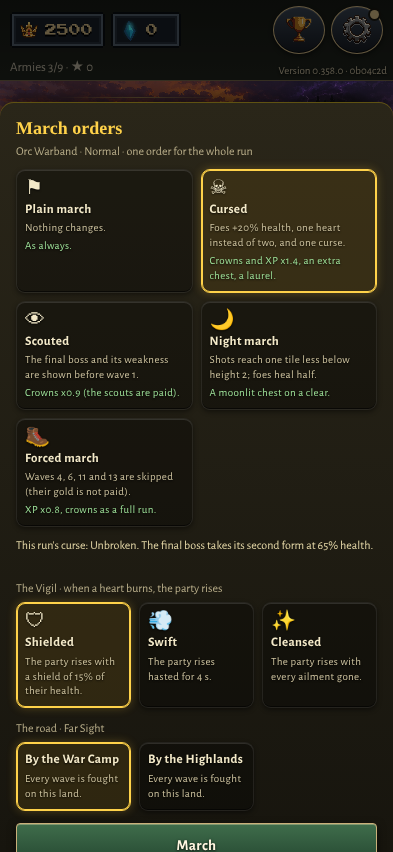
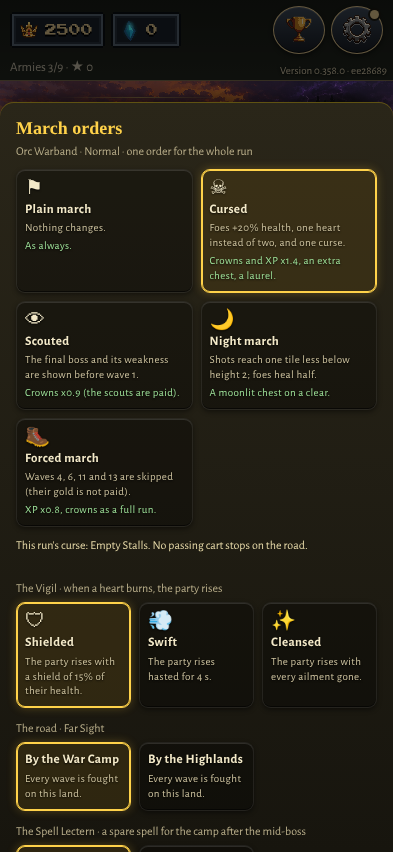
Depth build batch 13: the Smithy's rooms (Field Anvil, Patchwork, Master's Mark)
Claude-Session: https://claude.ai/code/session_01NDLKRsLZur627w2ZaVbFjf

diff --git a/src/marchCard.ts b/src/marchCard.ts
@@ -14,6 +14,7 @@ import { roomOpen } from './sim/rooms';
 import { spareChoices } from './sim/lectern';
 import { castList } from './sim/schools';
 import { SPELLS, type SpellId } from './sim/spells';
+import { UNITS } from './sim/units';
 import { VIGILS, VIGIL_IDS, type VigilId } from './sim/chapelRooms';
 
 const CSS = `
@@ -46,7 +47,7 @@ let styled = false;
 
 /** Whether the card has anything to choose: some modifier other than the plain march is open. */
 export function marchChoice(meta: Meta, army: string, tier: number): boolean {
-  return vigilOpen(meta) || spares(meta).length > 0 || roadsOf(meta, army).length > 0 || MARCHES.some((d) => d.id !== 'plain' && marchOpen(meta, army, tier, d.id).open);
+  return vigilOpen(meta) || spares(meta).length > 0 || roomOpen(meta.castle, 'mastersMark') || roadsOf(meta, army).length > 0 || MARCHES.some((d) => d.id !== 'plain' && marchOpen(meta, army, tier, d.id).open);
 }
 /** The Watchtower's Far Sight: the army's roads, one a land. */
 const roadsOf = (meta: Meta, army: string): Area[] => {
@@ -90,9 +91,11 @@ export function showMarchCard(meta: Meta, army: string, tier: number, seed: numb
   let road: Area | undefined = roads[0];
   const spareList = spares(meta);
   let spare: SpellId | undefined = spareList[0];
+  const markable = roomOpen(meta.castle, 'mastersMark') ? meta.party : [];
+  let marked: string | undefined = markable[0];
   const done = (orders: Orders | undefined) => {
     wrap.remove();
-    const o = { ...(orders ?? {}), ...(vigil ? { vigil } : {}), ...(road ? { route: road } : {}), ...(spare ? { spare } : {}) };
+    const o = { ...(orders ?? {}), ...(vigil ? { vigil } : {}), ...(road ? { route: road } : {}), ...(spare ? { spare } : {}), ...(marked ? { marked } : {}) };
     go(Object.keys(o).length ? o : undefined);
   };
 
@@ -171,6 +174,21 @@ export function showMarchCard(meta: Meta, army: string, tier: number, seed: numb
         st.push(t);
       }
     }
+    // (the Smithy's Master's Mark: one hero whose gear does not wear this run)
+    if (markable.length) {
+      add(box, 'p', 'mcSub mcVigilHead', "The Master's Mark · this hero's gear does not wear this run");
+      const mg = add(box, 'div', 'mcGrid mcVigil');
+      const mt: HTMLButtonElement[] = [];
+      for (const k of markable) {
+        const t = add(mg, 'button', `mcTile${k === marked ? ' on' : ''}`);
+        add(t, 'b', '', UNITS[k]?.name ?? k);
+        t.addEventListener('click', () => {
+          marked = k;
+          for (const x of mt) x.classList.toggle('on', x === t);
+        });
+        mt.push(t);
+      }
+    }
     const row = add(box, 'div', 'mcRow');
     const march = add(row, 'button', 'primary', 'March');
     march.addEventListener('click', () => (chosen === 'scouted' ? drawReport() : done(ordersFor(chosen, seed))));
@@ -237,5 +255,43 @@ export function showLectern(meta: Meta, spare: SpellId, done: (out: SpellId | nu
     wrap.remove();
     done(null);
   });
+  document.body.append(wrap);
+}
+
+/** The Smithy's Field Anvil at the camp after the mid-boss: mend the party's worn gear now, at the stall's price. */
+export function showAnvil(n: number, cost: number, afford: boolean, mend: () => void): void {
+  if (!styled) {
+    styled = true;
+    const style = document.createElement('style');
+    style.textContent = CSS;
+    document.head.append(style);
+  }
+  document.getElementById('marchCard')?.remove();
+  const wrap = document.createElement('div');
+  wrap.id = 'marchCard';
+  wrap.setAttribute('role', 'dialog');
+  const box = document.createElement('div');
+  box.className = 'mcBox';
+  wrap.append(box);
+  const h = document.createElement('h3');
+  h.textContent = 'The Field Anvil';
+  const p = document.createElement('p');
+  p.className = 'mcSub';
+  p.textContent = `${n} worn piece${n === 1 ? '' : 's'} in the party: mend ${n === 1 ? 'it' : 'them all'} for ${cost} crowns, the stall's price.`;
+  const row = document.createElement('div');
+  row.className = 'mcRow';
+  const no = document.createElement('button');
+  no.textContent = 'Not now';
+  const yes = document.createElement('button');
+  yes.className = 'primary';
+  yes.textContent = afford ? `Mend · ${cost}` : `Mend · ${cost} (too few crowns)`;
+  yes.disabled = !afford;
+  no.addEventListener('click', () => wrap.remove());
+  yes.addEventListener('click', () => {
+    wrap.remove();
+    mend();
+  });
+  row.append(no, yes);
+  box.append(h, p, row);
   document.body.append(wrap);
 }

diff --git a/src/main.ts b/src/main.ts
@@ -98,7 +98,9 @@ import { chestPicture } from './chestStash';
 import { toastAchievements, toastLines, toastSpells, toastStones } from './achievementsView';
 import { knownClues, WEAKNESS, weakLines } from './sim/weakness';
 import { farSight, heartsLost, marchCrowns, marchDef, marchPay, ordersLine, routeLand } from './sim/march';
-import { showLectern, showMarchCard } from './marchCard';
+import { showAnvil, showLectern, showMarchCard } from './marchCard';
+import { markedHero } from './sim/march';
+import { repairAll, repairAllCost } from './sim/wear';
 import { lecternDue, lecternSwap } from './sim/lectern';
 import { applyVigil } from './sim/chapelRooms';
 import { journeyBoost, landAt } from './sim/calJourney';
@@ -3395,13 +3397,26 @@ class Game {
       if (this.pay) marchCrowns(this.meta, this.pay, run.orders);
       // (DEPTH-BUILD: the Mage Tower's Spell Lectern, at the camp after the mid-boss: swap the run's spare spell in, once)
       const spare = run.orders?.spare as SpellId | undefined;
-      if (won && army && army.waves[stage - 1]?.boss === 'mid' && !this.auto && lecternDue(spare, run.orders?.spareUsed, true) && roomOpen(run.castle, 'spellLectern'))
+      const midWon = won && !!army && army.waves[stage - 1]?.boss === 'mid' && !this.auto;
+      // (and the Smithy's Field Anvil there: mend the party's worn gear at the stall's price)
+      const anvil = () => {
+        if (!midWon || !roomOpen(run.castle, 'fieldAnvil')) return;
+        const kinds = run.roster.map((h) => h.kind);
+        const { items, cost } = repairAllCost(this.meta, kinds);
+        if (items.length) showAnvil(items.length, cost, this.meta.crowns >= cost, () => {
+          repairAll(this.meta, kinds);
+          saveMeta(this.meta);
+        });
+      };
+      if (midWon && lecternDue(spare, run.orders?.spareUsed, true) && roomOpen(run.castle, 'spellLectern'))
         showLectern(this.meta, spare!, (out) => {
           run.orders!.spareUsed = true;
           if (out) lecternSwap(this.meta.spellbook, spare!, out, this.meta.spellbook.school);
           saveMeta(this.meta);
           saveRun(run);
+          anvil();
         });
+      else anvil();
       // (a daily pays by wave and its boss a chest; a practice run pays nothing)
       this.dailyPay = daily ? settleDaily(this.meta, run, { won, stage }) : null;
       // (a quest battle pays no crowns by the wave: its quest pays, QUEST-BATTLES)
@@ -3463,7 +3478,7 @@ class Game {
       const skillUps = useCut > 0 ? levelUpWords(settleSkillUse(this.meta, fightUse(b, this.meta.unlocked), useCut)) : [];
       // (RUN-GEAR: the found pieces wear as the lasting kit does, and a lasting piece a find sits in for does not)
       const fought = placed.map((u) => ({ kind: u.def, fell: !u.alive }));
-      const wore = [...(run.local ? [] : wearWords(settleWear(this.meta, fought, !!this.auto, (kind, slot) => slotTaken(run, kind, slot)), heroName)), ...wearWords(settleRunWear(run, fought, !!this.auto), heroName)];
+      const wore = [...(run.local ? [] : wearWords(settleWear(this.meta, fought, !!this.auto, (kind, slot) => slotTaken(run, kind, slot) || markedHero(run, kind)), heroName)), ...wearWords(settleRunWear(run, fought, !!this.auto), heroName)];
       // (WAVE-RECAP: the wave's line for the end recap's strip, and anything it found; the short card takes its moments from the same)
       // (a calamity's fights are counted one by one, its stage standing still; WAVE-RECAP-2)
       noteWave(run, { wave: run.mode?.kind === 'calamity' ? recapOf(run).fights : stage, won, stars: won ? rating.stars : 0, ms: b.t, mvp: mvpOf(this.stats)?.kind, ...(this.heartsBurned ? { hearts: this.heartsBurned } : {}) }, [...(this.dropGain?.words ?? []), ...(run.found ?? [])]);

diff --git a/test/smithy-rooms.test.ts b/test/smithy-rooms.test.ts
@@ -1,0 +1,38 @@
+// DEPTH-BUILD (docs/notes/depth-build.md): the Smithy's rooms: Patchwork, the Master's Mark (the Field Anvil is the page's, on `repairAll`).
+import { test } from 'node:test';
+import assert from 'node:assert/strict';
+import { startedMeta } from '../src/sim/meta';
+import { PATCH_SHARE, equipStats, maxDurability, type Equipment } from '../src/sim/equipment';
+import { markedHero } from '../src/sim/march';
+import { newCastle } from '../src/sim/castle';
+import { EQUIP_BASES } from '../src/sim/equipBases';
+
+function dressed() {
+  const m = startedMeta(1);
+  const [base, def] = Object.entries(EQUIP_BASES).find(([, b]) => b.slot === 'torso') ?? Object.entries(EQUIP_BASES)[0];
+  const it = { id: 1, base, rarity: 2, level: 1 } as unknown as Equipment;
+  m.equipment = [it];
+  m.equipped = { knight: { [def.slot]: 1 } } as never;
+  return { m, it };
+}
+
+test('Patchwork: a broken piece keeps half its numbers until mended; without it a broken piece gives nothing', () => {
+  const { m, it } = dressed();
+  const whole = equipStats(m, 'knight')!;
+  assert.ok(whole);
+  it.wear = maxDurability(it);
+  assert.equal(equipStats(m, 'knight'), undefined, 'broken, no Patchwork');
+  m.castle.smithy = 2;
+  const half = equipStats(m, 'knight')!;
+  for (const k of ['hp', 'atk', 'def'] as const) assert.ok(Math.abs(half[k] - whole[k] * PATCH_SHARE) < 1e-9, k);
+  assert.equal(half.abilities.length, 0, 'no ability while broken');
+});
+
+test("the Master's Mark spares only the marked hero, and only with the room", () => {
+  const castle = newCastle();
+  const run = { orders: { marked: 'knight' }, castle };
+  assert.equal(markedHero(run, 'knight'), false, 'no room');
+  castle.smithy = 3;
+  assert.equal(markedHero(run, 'knight'), true);
+  assert.equal(markedHero(run, 'archer'), false);
+});

diff --git a/src/sim/equipment.ts b/src/sim/equipment.ts
@@ -7,6 +7,7 @@
 // same boost the levels and grades use (`Boost.equip`, read by `addUnit` in battle.ts). Pure rules: no Pixi, no DOM;
 // the roll draws only from the stream it is given.
 
+import { roomOpen } from './rooms';
 import type { Meta } from './meta';
 import type { Rng } from './rng';
 import { ALL_HEROES, UNITS } from './units';
@@ -251,13 +252,22 @@ export function wornIn(m: Meta, kind: string, slot: EquipSlot): Equipment | unde
   return id === undefined ? undefined : m.equipment?.find((x) => x.id === id);
 }
 
+/** The share of its numbers a broken piece keeps with the Smithy's Patchwork. */
+export const PATCH_SHARE = 0.5;
+
 /** What a hero kind's equipment adds in a fight; undefined when it wears nothing (so the fight is exactly as before). */
 export function equipStats(m: Meta, kind: string): EquipStats | undefined {
   // (a broken piece gives nothing at all until mended: `wear.ts`)
   const worn = EQUIP_SLOTS.map((slot) => wornIn(m, kind, slot)).filter((x): x is Equipment => !!x && !brokenPiece(x));
-  if (!worn.length) return undefined;
+  // (DEPTH-BUILD: the Smithy's Patchwork: a broken piece keeps half its numbers, no ability and no set count, until mended)
+  const patched = roomOpen(m.castle, 'patchwork') ? EQUIP_SLOTS.map((slot) => wornIn(m, kind, slot)).filter((x): x is Equipment => !!x && brokenPiece(x)) : [];
+  if (!worn.length && !patched.length) return undefined;
   const total = emptyStats();
   for (const it of worn) addStats(total, itemStats(it, kind));
+  for (const it of patched) {
+    const half = itemStats(it, kind);
+    for (const k of STAT_KEYS) total[k] += (half[k] ?? 0) * PATCH_SHARE;
+  }
   return capStats(addSetBonus(total, worn.map((x) => x.base)));
 }
 

diff --git a/src/sim/march.ts b/src/sim/march.ts
@@ -175,3 +175,6 @@ export function routesOf(lands: readonly Area[], castle: Castle | undefined): Ar
 export const routeLand = (o: Orders | undefined, lands: readonly Area[]): Area | undefined => (o?.route && (lands as readonly string[]).includes(o.route) ? (o.route as Area) : undefined);
 /** Far Sight: the short card after each wave names the next wave's foes. */
 export const farSight = (castle: Castle | undefined): boolean => roomOpen(castle, 'farSight');
+
+/** The Smithy's Master's Mark: the hero the run marked, whose gear does not wear (only with the room). */
+export const markedHero = (run: { orders?: Orders; castle?: Castle }, kind: string): boolean => !!run.orders?.marked && run.orders.marked === kind && roomOpen(run.castle, 'mastersMark');

diff --git a/docs/notes/depth-build.md b/docs/notes/depth-build.md
@@ -253,3 +253,17 @@ and Paladin, Paladin and Cleric) at level n and every other pair Comrades at mos
   does. The design's "within the power budget": the budget went when the schools came, so the slot rules stand in for it. Not in an auto
   replay.
 - Tests: `test/lectern.test.ts`.
+
+## Batch 13: the Smithy's rooms
+
+- **Field Anvil** (Smithy 1): after the mid-boss's wave is won (after the Lectern, when both are due), a sheet offers to mend every worn
+  piece the run's heroes wear, as one payment at the stall's price (`repairAllCost` / `repairAll`, the Armoury's cut included). No new
+  prices: the gear build's own.
+- **Patchwork** (Smithy 2; `equipStats`): a broken piece keeps `PATCH_SHARE` (half) of its numbers until mended, with no ability, power or
+  set count; without the room a broken piece gives nothing, as before. (A real-gear run's own finds keep the old rule.)
+- **Master's Mark** (Smithy 3): the march card picks one hero of the party (`Orders.marked`) whose lasting gear does not wear this run
+  (`markedHero`, the page's `settleWear` skip).
+- Balance: the army pace tool dresses fresh gear, so none of these moves its numbers; Patchwork only softens a broken piece the player
+  has not mended.
+- Tests: `test/smithy-rooms.test.ts`.
+- The march card, with every room open, is now taller than the phone and scrolls inside its sheet; a later pass could fold the room rows (Vigil, road, spare, mark) behind a 'Camp orders' row.
